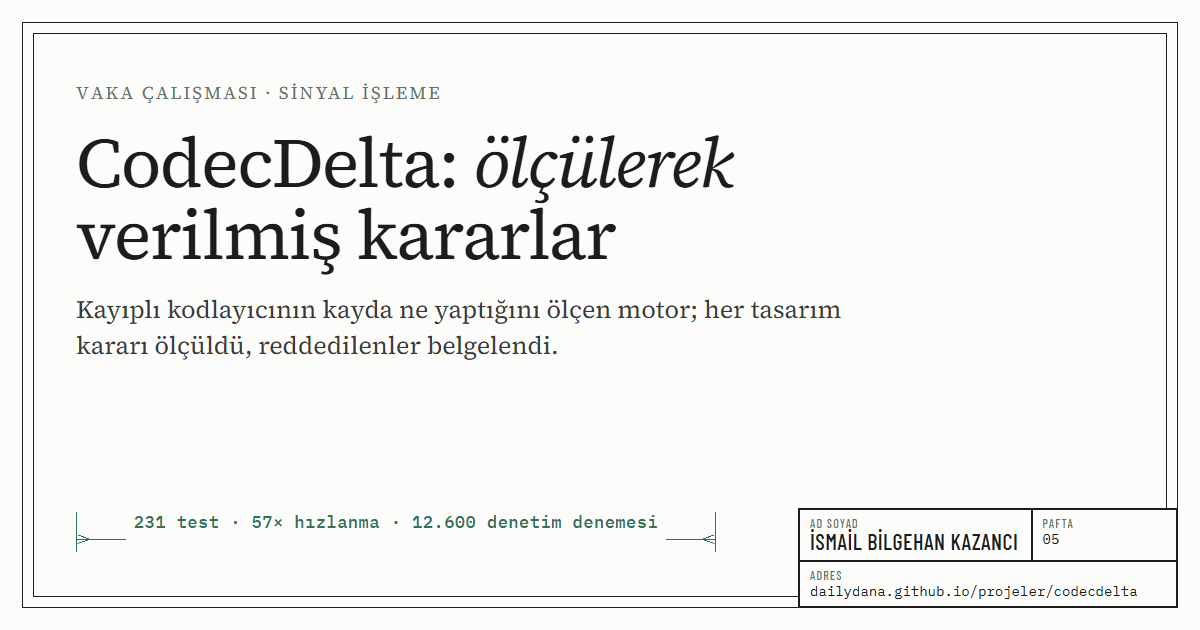
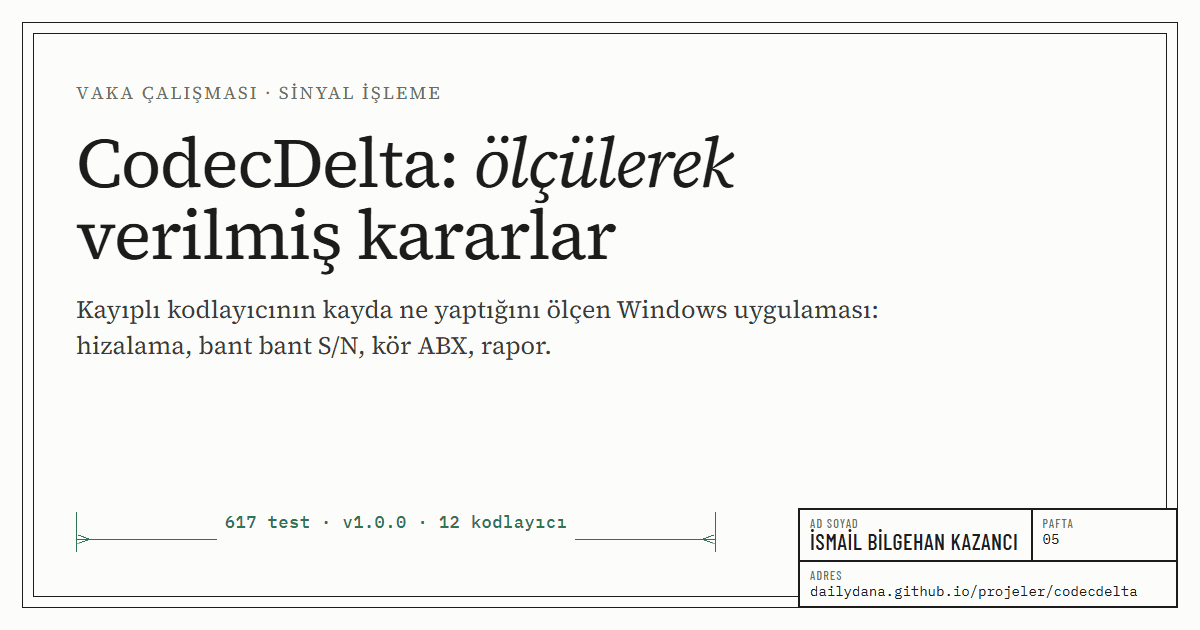
CodecDelta v1.0.0: kart ve vaka sayfası güncellendi, rapor görseli eklendi
617 test, dört sekmeli uygulama, paylaşılabilir rapor, kurulum; yeni ölçümler (Pearson hizalama, -ss doğruluğu, 16-bit ara adım, NMR tonalitesi) ve henüz doğrulanmayanlar bölümü. Görsel, uygulamanın sentetik bir FLAC/Opus çiftiyle ürettiği gerçek rapordan.

Changed region(s): [[0.0617, 0.5127, 0.4625, 0.573], [0.0925, 0.8143, 0.555, 0.8444], [0.4933, 0.4825, 0.74, 0.5127]]

diff --git a/projeler/codecdelta/index.html b/projeler/codecdelta/index.html
@@ -4,7 +4,7 @@
   <meta charset="utf-8">
   <meta name="viewport" content="width=device-width, initial-scale=1">
   <title data-tr="CodecDelta — Ses Kodlama Farkı Analizi · İsmail Bilgehan Kazancı" data-en="CodecDelta — Audio Codec Delta Analysis · İsmail Bilgehan Kazancı">CodecDelta — Ses Kodlama Farkı Analizi · İsmail Bilgehan Kazancı</title>
-  <meta name="description" content="Kayıplı bir kodlayıcının kayda ne yaptığını ölçen Python analiz motoru: bit akışı okuyucuları, alt-örnek hizalama, ABX istatistiği. Her tasarım kararı ölçülerek verildi ve belgelendi. 231 test, mypy --strict, GPL-3.0.">
+  <meta name="description" content="Kayıplı bir kodlayıcının kayda ne yaptığını ölçen Windows uygulaması: örnek-altı hizalama, bant bant S/N, kör ABX testi, kodlama, kütüphane taraması, paylaşılabilir rapor. v1.0.0, 617 test, mypy --strict, GPL-3.0.">
   <meta name="author" content="İsmail Bilgehan Kazancı">
   <link rel="canonical" href="https://dailydana.github.io/projeler/codecdelta/">
   <link rel="alternate" hreflang="tr" href="https://dailydana.github.io/projeler/codecdelta/">
@@ -13,7 +13,7 @@
   <meta property="og:type" content="article">
   <meta property="og:site_name" content="İsmail Bilgehan Kazancı">
   <meta property="og:title" content="CodecDelta — Audio Codec Delta Analysis · case study">
-  <meta property="og:description" content="Measure what a lossy encoder did: bitstream readers, sub-sample alignment, ABX statistics. Every design decision measured and documented; 231 tests, mypy --strict, GPL-3.0.">
+  <meta property="og:description" content="A Windows app that measures what a lossy encoder did: sub-sample alignment, per-band SNR, blind ABX, encoding, library scan, shareable reports. v1.0.0, 617 tests, every design decision measured and documented.">
   <meta property="og:url" content="https://dailydana.github.io/projeler/codecdelta/">
   <meta property="og:image" content="https://dailydana.github.io/projeler/codecdelta/og.png">
   <meta property="og:image:width" content="1200">
@@ -35,7 +35,8 @@
     "@context": "https://schema.org",
     "@type": "SoftwareSourceCode",
     "name": "CodecDelta",
-    "description": "Audio analysis engine that measures what a lossy encoder did to a recording: bitstream readers, sub-sample alignment, ABX statistics.",
+    "description": "Windows application that measures what a lossy encoder did to a recording: sub-sample alignment, per-band SNR, blind ABX testing, encoding, library scanning and shareable reports.",
+    "softwareVersion": "1.0.0",
     "codeRepository": "https://github.com/DailyDana/CodecDelta",
     "programmingLanguage": "Python",
     "license": "https://www.gnu.org/licenses/gpl-3.0.html",
@@ -87,15 +88,15 @@
       <nav class="crumb" aria-label="Sayfa yolu" data-aria="aria.crumb"><a href="/#projeler">← <span data-lang="tr">Projeler</span><span data-lang="en">Projects</span></a></nav>
 
       <header class="case-head">
-        <div class="kicker"><span data-lang="tr">Vaka çalışması · Sinyal işleme · 2026 · geliştiriliyor</span><span data-lang="en">Case study · Signal processing · 2026 · in progress</span></div>
+        <div class="kicker"><span data-lang="tr">Vaka çalışması · Sinyal işleme · 2026 · v1.0.0</span><span data-lang="en">Case study · Signal processing · 2026 · v1.0.0</span></div>
         <h1 class="case-title"><span data-lang="tr">CodecDelta — Ses Kodlama Farkı Analizi</span><span data-lang="en">CodecDelta — Audio Codec Delta Analysis</span></h1>
-        <p class="case-lead"><span data-lang="tr">Kayıplı bir kodlayıcının kayda ne yaptığını ölçen analiz motoru: aynı kaydın iki kodlamasını karşılaştırır, tek dosyadan "bu FLAC gerçekten kayıpsız mı" sorusuna cevap arar. Asıl değeri özellik listesi değil, ölçülerek alınan ve reddedilen kararların kaydı.</span><span data-lang="en">An analysis engine that measures what a lossy encoder did to a recording: it compares two encodes of the same material and, from a single file, asks whether a FLAC is really lossless. Its real value is not the feature list but the record of decisions taken, and rejected, by measurement.</span></p>
-        <div class="case-tags"><span class="chip">Python 3.14</span><span class="chip">numpy</span><span class="chip">ffmpeg · ffprobe</span><span class="chip">pytest</span><span class="chip">mypy --strict</span><span class="chip">GPL-3.0</span></div>
+        <p class="case-lead"><span data-lang="tr">Kayıplı bir kodlayıcının kayda ne yaptığını ölçen Windows uygulaması. Aynı kaydın iki kodlamasını örnek-altı hassasiyetle hizalayıp karşılaştırır, farkın duyulup duyulmadığını kör ABX testiyle sorar ve tek bir dosyadan "bu FLAC gerçekten kayıpsız mı" sorusuna cevap arar. Asıl değeri özellik listesi değil, ölçülerek alınan ve reddedilen kararların kaydı.</span><span data-lang="en">A Windows application that measures what a lossy encoder did to a recording. It aligns two encodes of the same material to sub-sample accuracy, asks with a blind ABX test whether the difference is audible, and checks from a single file whether a FLAC is really lossless. Its real value is not the feature list but the record of decisions taken, and rejected, by measurement.</span></p>
+        <div class="case-tags"><span class="chip">Python 3.14</span><span class="chip">numpy</span><span class="chip">PyQt6</span><span class="chip">ffmpeg · ffprobe</span><span class="chip">pytest</span><span class="chip">mypy --strict</span><span class="chip">GPL-3.0</span></div>
         <dl class="case-metrics">
-          <div><dt><span data-lang="tr">Test</span><span data-lang="en">Tests</span></dt><dd>231</dd></div>
-          <div><dt><span data-lang="tr">Bit akışı okuyucu</span><span data-lang="en">Bitstream readers</span></dt><dd>Ogg · Opus · Vorbis · FLAC · MP3</dd></div>
+          <div><dt><span data-lang="tr">Test</span><span data-lang="en">Tests</span></dt><dd>617</dd></div>
+          <div><dt><span data-lang="tr">Sürüm</span><span data-lang="en">Release</span></dt><dd>v1.0.0</dd></div>
           <div><dt><span data-lang="tr">Denetim</span><span data-lang="en">Audit</span></dt><dd>12.600 <span data-lang="tr">deneme</span><span data-lang="en">trials</span></dd></div>
-          <div><dt><span data-lang="tr">Durum</span><span data-lang="en">Status</span></dt><dd><span data-lang="tr">motor; arayüz yok</span><span data-lang="en">engine; no UI</span></dd></div>
+          <div><dt><span data-lang="tr">Kodlayıcı</span><span data-lang="en">Encoders</span></dt><dd>12</dd></div>
         </dl>
         <div class="case-actions">
           <a class="btn btn-accent" href="https://github.com/DailyDana/CodecDelta" target="_blank" rel="noopener"><span data-lang="tr">Kaynak kod</span><span data-lang="en">Source code</span> <span aria-hidden="true">↗</span></a>
@@ -103,16 +104,21 @@
         </div>
       </header>
 
+      <figure class="case-hero">
+        <img src="/assets/img/projects/codecdelta-rapor.webp" width="920" height="1470" alt="CodecDelta karşılaştırma raporu: hüküm, özet tablosu ve bant bant S/N grafiği" fetchpriority="high">
+        <figcaption><span data-lang="tr">Uygulamanın ürettiği paylaşılabilir HTML rapor: FLAC ile aynı kaydın 64 kbps Opus kodlaması karşılaştırılmış. Hizalama, seviye, codec S/N ve bant bant fark; dosya yolları ve kullanıcı adları rapordan otomatik çıkarılır.</span><span data-lang="en">The shareable HTML report produced by the app: a FLAC compared with a 64 kbps Opus encode of the same recording. Alignment, level, codec SNR and per-band difference; file paths and user names are removed automatically.</span></figcaption>
+      </figure>
+
       <div class="case-body">
         <section>
           <h2 data-no="01"><span data-lang="tr">Problem</span><span data-lang="en">Problem</span></h2>
           <div data-lang="tr">
             <p>FLAC ile Opus, orijinal ile YouTube kopyası, MP3 ile AAC: ne kadar bilgi kayboldu, spektrumun neresinde, duyulur mu? Ve referans olmadan, tek dosyadan: bu FLAC gerçekten kayıpsız mı, yoksa kayıplı bir kaynaktan dönüştürülmüş mü?</p>
-            <p>Bu analizi <code>ffprobe</code>, ffmpeg filtreleri ve tek seferlik betiklerle elle yapıyordum. Tekrarlanabilir değildi ve video girdisini kaldıramıyordu. Hedef: sample-hassasiyetinde hizalama yapan, kararlarını ölçümle veren ve "fark yok" demeyi asla bir başarısız testten türetmeyen bir motor.</p>
+            <p>Bu analizi <code>ffprobe</code>, ffmpeg filtreleri ve tek seferlik betiklerle elle yapıyordum. Tekrarlanabilir değildi ve video girdisini kaldıramıyordu. Hedef: örnek-altı hassasiyetle hizalayan, kararlarını ölçümle veren ve "fark yok" demeyi asla başarısız bir testten türetmeyen bir araç.</p>
           </div>
           <div data-lang="en">
             <p>FLAC against Opus, an original against a YouTube rip, MP3 against AAC: how much information was lost, where in the spectrum, and is it audible? And with no reference, from a single file: is this FLAC really lossless, or a transcode from a lossy source?</p>
-            <p>I used to do this by hand with <code>ffprobe</code>, ffmpeg filters and one-off scripts. It was not repeatable and could not take video input. The goal: an engine that aligns to sample accuracy, decides by measurement, and never derives "no difference" from a failed test.</p>
+            <p>I used to do this by hand with <code>ffprobe</code>, ffmpeg filters and one-off scripts. It was not repeatable and could not take video input. The goal: a tool that aligns to sub-sample accuracy, decides by measurement, and never derives "no difference" from a failed test.</p>
           </div>
         </section>
 
@@ -120,6 +126,9 @@
           <h2 data-no="02"><span data-lang="tr">Yaklaşım</span><span data-lang="en">Approach</span></h2>
           <div data-lang="tr">
             <ul>
+              <li><strong>Dört sekmeli uygulama.</strong> <em>Analiz</em> iki dosyayı karşılaştırır ya da tek dosyayı doğrular; <em>Kodlama</em> ffmpeg yapısından bulunan 12 kodlayıcıyla kodlayıp hemen karşılaştırır ve 96–256 kbps arasında bit hızı taraması yapar; <em>ABX</em> hizalanmış, seviyesi eşitlenmiş, tıklamasız (8 ms çapraz geçiş) kör test yürütür; <em>Kütüphane taraması</em> bir klasörü kaldığı yerden devam edebilen önbellekle tarar ve CSV verir. Arayüz Türkçe ve İngilizce.</li>
+              <li><strong>Paylaşılabilir rapor.</strong> Tek dosyalık HTML, grafikler satır içi SVG, açık/koyu tema. Yazılmadan önce yol, kullanıcı ve bilgisayar adı için denetlenir; sızıntı bulunursa dosya hiç yazılmaz.</li>
+              <li><strong>Kurulum.</strong> Kullanıcı başına kurulum (yönetici yetkisi gerekmez), ffmpeg indirme betiği özetini ve soxr desteğini doğrular. CI temiz bir makinede paketi derler ve duman testinden geçmeyen yapıyı paketlemez.</li>
               <li><strong>Aşağıdan yukarı motor.</strong> <code>core/</code> (ffmpeg keşfi, PCM akışı, ffprobe, gizlilik temizliği, ABX istatistiği) → <code>bitstream/</code> (Ogg örneklenmiş CRC, Opus TOC, Vorbis, FLAC MD5, MP3 Xing/LAME) → <code>dsp/</code> ve <code>align/</code> (alt-örnek gecikme kestirimi ve geçerlilik ölçüsü). Motor katmanı Qt import etmez; bir test bunu kilitler.</li>
               <li><strong>Sözleşme koddan önce.</strong> Hizalama çekirdeğinin spesifikasyonu (<code>docs/SPEC-alignment.md</code>) kod yazılmadan yazıldı.</li>
               <li><strong>Video girdisi bedava.</strong> Video akışı hiç decode edilmez; 20 GB'lık bir konser MKV'si yalnız ses parçası kadar maliyet çıkarır. 684 sn'lik gerçek bir YouTube m4a'da probe + decode 1242× gerçek zaman ölçüldü.</li>
@@ -129,6 +138,9 @@
           </div>
           <div data-lang="en">
             <ul>
+              <li><strong>A four-tab application.</strong> <em>Analyze</em> compares two files or verifies one; <em>Encode</em> encodes with the 12 codecs found in the ffmpeg build, compares immediately and sweeps bitrates from 96 to 256 kbps; <em>ABX</em> runs an aligned, level-matched, click-free (8 ms crossfade) blind test; <em>Library scan</em> checks a whole folder with a resumable cache and exports CSV. UI in English and Turkish.</li>
+              <li><strong>Shareable reports.</strong> A single self-contained HTML file, charts as inline SVG, light and dark. Before writing, it is audited for paths, user and machine names; if anything leaks, the file is not written.</li>
+              <li><strong>Packaging.</strong> Per-user install (no administrator rights); the ffmpeg download script checks the digest and soxr support. CI builds the package on a clean machine and refuses to zip a build that fails its smoke test.</li>
               <li><strong>Bottom-up engine.</strong> <code>core/</code> (ffmpeg discovery, PCM streaming, ffprobe, privacy scrubbing, ABX statistics) → <code>bitstream/</code> (Ogg with sampled CRC, Opus TOC, Vorbis, FLAC MD5, MP3 Xing/LAME) → <code>dsp/</code> and <code>align/</code> (sub-sample delay estimation and a validity measure). The engine layer never imports Qt; a test locks that.</li>
               <li><strong>Contract before code.</strong> The alignment core's specification (<code>docs/SPEC-alignment.md</code>) was written before the code it describes.</li>
               <li><strong>Video input for free.</strong> The video stream is never decoded; a 20 GB concert MKV costs the same as its audio track alone. Probe + decode measured at 1242× realtime on a real 684 s YouTube m4a.</li>
@@ -152,10 +164,14 @@
                 <tr><td>Geçerlilik ölçüsü, ikinci kestirici değil</td><td class="num">2,4 ms (alternatifler 8,0 / 23,0 ms)</td></tr>
                 <tr><td>soxr yeniden örnekleme, cutoff açıkça 0,99</td><td class="num">varsayılan 21,5 kHz'de <b>−30,4 dB</b> bastırıyordu</td></tr>
                 <tr><td>ABX gücü n = 16</td><td class="num">plan 0,45 sanıyordu, gerçek <b>0,630</b>; %80 güç n ≈ 26</td></tr>
+                <tr><td>Kaba hizalama: örtüşme sayısı yerine Pearson</td><td class="num">40 tohumda 20/40 → <b>40/40</b> doğru</td></tr>
+                <tr><td><code>ffmpeg -ss</code> her formatta örnek-doğru değil</td><td class="num">M4A/AAC'de <b>70–820</b> örnek sapma; yalnız ölçülenler hızlı yoldan</td></tr>
+                <tr><td>Yeniden örnekleme zinciri kayan noktada</td><td class="num">16-bit ara adım: 81 dB → <b>148 dB</b></td></tr>
+                <tr><td>Hüküm mutlak NMR'ye değil, kullanıcının referansından kurulan merdivene dayanır</td><td class="num">tek bir tonalite seçimi NMR'yi <b>15 dB</b> oynatıyor</td></tr>
               </tbody>
             </table>
             <p>Faz eğiminin çöküşünün kök nedeni gürültü değil <code>np.unwrap</code>: banttaki tek bir düşük genlikli bin 2π dal değişimi yapıp sonraki tüm binlere taşıyor. Tonal müzik seyrek spektrumludur (en büyük %1 bin ağırlığın %78,6'sını taşıyor), bu yüzden sonsuz S/N'de bile çöküyor. Düşük binleri filtrelemek denendi ve reddedildi: spektral dropout'ta 150–400 örneklik hata veriyor.</p>
-            <p><strong>Kaldırılan sezgiseller:</strong> FLAC blok boyutu kodlayıcıyı belirlemez (aynı ffmpeg 1024, 4096 ve 4608 üretti); ffmpeg gerçek LAME etiketi yazmaz (+9..+20 alanları sıfır, sıfır "0 Hz'de kesilmiş" diye okunmaz); tepe keskinliği geçerli/geçersizi ayırmaz (aralıklar tamamen örtüşüyor, korelasyon ayırıyor).</p>
+            <p><strong>Kaldırılan sezgiseller:</strong> FLAC blok boyutu kodlayıcıyı belirlemez (aynı ffmpeg 1024, 4096 ve 4608 üretti); ffmpeg gerçek LAME etiketi yazmaz (+9..+20 alanları sıfır, sıfır "0 Hz'de kesilmiş" diye okunmaz); tepe keskinliği geçerli/geçersizi ayırmaz (aralıklar tamamen örtüşüyor, korelasyon ayırıyor); plandaki dönüştürme sezgisellerinin bir kısmı tersti (9 CD parçası ve 117 dönüştürmede ayırt eden tek işaret çerçeve başına kesim frekansının medyanı çıktı).</p>
           </div>
           <div data-lang="en">
             <p>Plausible ideas were implemented, measured and removed when the measurement disagreed. Each is recorded in <code>docs/DECISIONS.md</code> with its numbers; several are locked by tests so they cannot come back.</p>
@@ -169,15 +185,29 @@
                 <tr><td>A validity measure, not a second estimator</td><td class="num">2.4 ms (alternatives 8.0 / 23.0 ms)</td></tr>
                 <tr><td>soxr resampling with an explicit 0.99 cutoff</td><td class="num">default attenuated <b>−30.4 dB</b> at 21.5 kHz</td></tr>
                 <tr><td>ABX power at n = 16</td><td class="num">plan assumed 0.45, actual <b>0.630</b>; 80% power at n ≈ 26</td></tr>
+                <tr><td>Coarse alignment: Pearson instead of overlap count</td><td class="num">40 seeds: 20/40 → <b>40/40</b> correct</td></tr>
+                <tr><td><code>ffmpeg -ss</code> is not sample-accurate on every format</td><td class="num"><b>70–820</b> samples off on M4A/AAC; only measured formats take the fast path</td></tr>
+                <tr><td>Resampling chain forced to floating point</td><td class="num">16-bit midway step: 81 dB → <b>148 dB</b></td></tr>
+                <tr><td>Verdict rests on a ladder built from the user's reference, not absolute NMR</td><td class="num">one tonality choice moves NMR by <b>15 dB</b></td></tr>
               </tbody>
             </table>
             <p>The root cause of the phase-slope failure is not noise but <code>np.unwrap</code>: a single low-magnitude bin flips the branch by 2π and every subsequent bin inherits the offset. Tonal music is sparse (the top 1% of bins carry 78.6% of the fit weight), so it fails even at infinite SNR. Filtering low bins before unwrapping was tried and rejected: under spectral dropout it produces 150–400-sample errors.</p>
-            <p><strong>Removed heuristics:</strong> FLAC blocksize does not identify an encoder (the same ffmpeg produced 1024, 4096 and 4608); ffmpeg does not write a real LAME tag (fields +9..+20 are zero, and zero must never be read as "cut at 0 Hz"); peak sharpness does not separate valid from invalid (the ranges overlap completely; correlation does the job).</p>
+            <p><strong>Removed heuristics:</strong> FLAC blocksize does not identify an encoder (the same ffmpeg produced 1024, 4096 and 4608); ffmpeg does not write a real LAME tag (fields +9..+20 are zero, and zero must never be read as "cut at 0 Hz"); peak sharpness does not separate valid from invalid (the ranges overlap completely; correlation does the job); some of the plan's transcode heuristics were backwards (on 9 CD tracks and 117 transcodes, the only clean separator was the median per-frame cutoff).</p>
           </div>
         </section>
 
         <section>
-          <h2 data-no="04"><span data-lang="tr">Öğrendiklerim</span><span data-lang="en">What I learned</span></h2>
+          <h2 data-no="04"><span data-lang="tr">Henüz doğrulanmayanlar</span><span data-lang="en">Not verified yet</span></h2>
+          <div data-lang="tr">
+            <p>v1.0.0 çalışıyor, ama her şey kanıtlanmış değil; deponun README'si bunları açıkça listeliyor. ABX testi henüz kulakla denenmedi ve Bluetooth üzerinden çalma (tampon boşalmaları testi bozabilir) ölçülmedi. "Farklı master" sınıfı gerçek remaster çiftleri bulunamadığı için sentetik veriyle kalibre edildi; bu yüzden hüküm değil yalnız uyarı üretiyor. Kayıplı kaynak eşiklerini kullanıcının kendi dosyalarından kalibre etmek bilinçli olarak yapılmadı: 20,75 kHz kapısının iki yanında yaklaşık 120 Hz pay var ve otomatik ayar, denetlenemeyen yanlış pozitifler ekleyebilir.</p>
+          </div>
+          <div data-lang="en">
+            <p>v1.0.0 works, but not everything is proven; the repository README lists these openly. The ABX test has not yet been tried by ear, and playback over Bluetooth (where buffer underruns could spoil a test) has not been measured. The "different master" class was calibrated on synthetic data because no real remaster pairs were available, so it produces a warning rather than a verdict. Calibrating the lossy-source thresholds from the user's own files was deliberately not built: the margin is about 120 Hz either side of the 20.75 kHz gate, and an automatic adjustment could add false positives with no way to check them.</p>
+          </div>
+        </section>
+
+        <section>
+          <h2 data-no="05"><span data-lang="tr">Öğrendiklerim</span><span data-lang="en">What I learned</span></h2>
           <div data-lang="tr">
             <p>Bir kestirici her zaman bir sayı döndürür; bu, sayının bir anlamı olduğu anlamına gelmez. İlgisiz iki sinyalde iki kestirici iki farklı "makul" gecikme verdi, ikisi de yanlıştı; "bulunacak bir gecikme var mı" sorusunu ancak bir geçerlilik ölçüsü cevaplayabildi.</p>
             <p>Reddedilen fikirleri de belgelemek, aynı hatanın geri gelmesini önleyen tek şey. Bu projenin en değerli dosyası kod değil, <code>DECISIONS.md</code>.</p>

diff --git a/assets/js/data.js b/assets/js/data.js
@@ -154,23 +154,23 @@ window.PORTFOLIO = {
     {
       slug: 'codecdelta',
       repo: 'CodecDelta',
-      order: 4, featured: false, cluster: 'software', status: 'wip', year: '2026',
+      order: 4, featured: false, cluster: 'software', status: 'active', year: '2026',
       title: { tr: 'CodecDelta — Ses Kodlama Farkı Analizi', en: 'CodecDelta — Audio Codec Delta Analysis' },
       summary: {
-        tr: 'Kayıplı bir kodlayıcının kayda ne yaptığını ölçen araç: Ogg/Opus/Vorbis/FLAC/MP3 bit akışı okuyucuları, alt-örnek hizalama ve geçerlilik ölçüsü, kapalı formlu ABX istatistiği. Her tasarım kararı ölçülerek verildi ve belgelendi; arayüz henüz yok.',
-        en: 'Measures what a lossy encoder did to a recording: Ogg/Opus/Vorbis/FLAC/MP3 bitstream readers, sub-sample alignment with a validity measure, closed-form ABX statistics. Every design decision was measured and documented; no UI yet.'
+        tr: 'Kayıplı bir kodlayıcının kayda ne yaptığını ölçen Windows uygulaması: örnek-altı hizalama, bant bant S/N, kör ABX testi, 12 kodlayıcıyla kodlama ve bit hızı taraması, kütüphane taraması, kişisel veriden arındırılmış HTML rapor. Her tasarım kararı ölçülerek verildi ve belgelendi.',
+        en: 'A Windows app that measures what a lossy encoder did to a recording: sub-sample alignment, per-band SNR, blind ABX testing, encoding with 12 codecs and a bitrate sweep, library scanning, privacy-scrubbed HTML reports. Every design decision was measured and documented.'
       },
-      tags: ['Python', 'numpy', 'DSP', 'mypy --strict', 'GPL-3.0'],
+      tags: ['Python', 'PyQt6', 'numpy', 'DSP', 'mypy --strict', 'GPL-3.0'],
       metrics: [
-        { value: '231', label: { tr: 'test', en: 'tests' } },
-        { value: '57×', label: { tr: 'hızlanma (readinto)', en: 'speed-up (readinto)' } },
-        { value: '5', label: { tr: 'bit akışı formatı', en: 'bitstream formats' } }
+        { value: '617', label: { tr: 'test', en: 'tests' } },
+        { value: 'v1.0.0', label: { tr: 'sürüm', en: 'release' } },
+        { value: '57×', label: { tr: 'hızlanma (readinto)', en: 'speed-up (readinto)' } }
       ],
       links: [
         { kind: 'repo', url: 'https://github.com/DailyDana/CodecDelta' }
       ],
       page: '/projeler/codecdelta/',
-      image: null
+      image: { src: '/assets/img/projects/codecdelta.webp', w: 872, h: 490, alt: { tr: 'CodecDelta raporundan bant bant S/N grafiği ve gürültü/maske ısı haritası', en: 'Per-band SNR chart and noise-to-mask heat map from a CodecDelta report' } }
     },
     {
       slug: 'cad-calismalari',

diff --git a/tools/og.py b/tools/og.py
@@ -45,8 +45,8 @@ OG_PAGES: list[tuple[Path, dict[str, str]]] = [
     (ROOT / "projeler" / "codecdelta" / "og.png", {
         "kicker": "Vaka çalışması · Sinyal işleme",
         "title": "CodecDelta: *ölçülerek* verilmiş kararlar", "sheet": "05",
-        "sub": "Kayıplı kodlayıcının kayda ne yaptığını ölçen motor; her tasarım kararı ölçüldü, reddedilenler belgelendi.",
-        "m1": "231 test", "m2": "57× hızlanma", "m3": "12.600 denetim denemesi",
+        "sub": "Kayıplı kodlayıcının kayda ne yaptığını ölçen Windows uygulaması: hizalama, bant bant S/N, kör ABX, rapor.",
+        "m1": "617 test", "m2": "v1.0.0", "m3": "12 kodlayıcı",
         "url": "dailydana.github.io/projeler/codecdelta",
     }),
     (ROOT / "projeler" / "cad-calismalari" / "og.png", {
